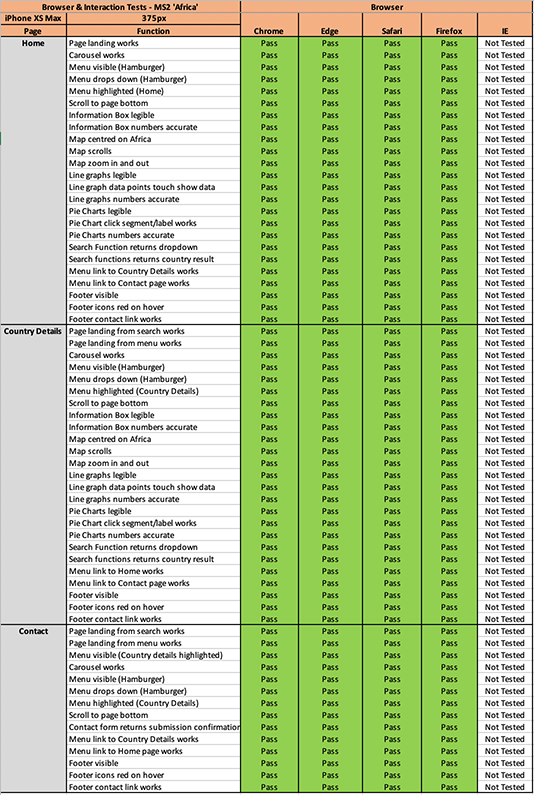
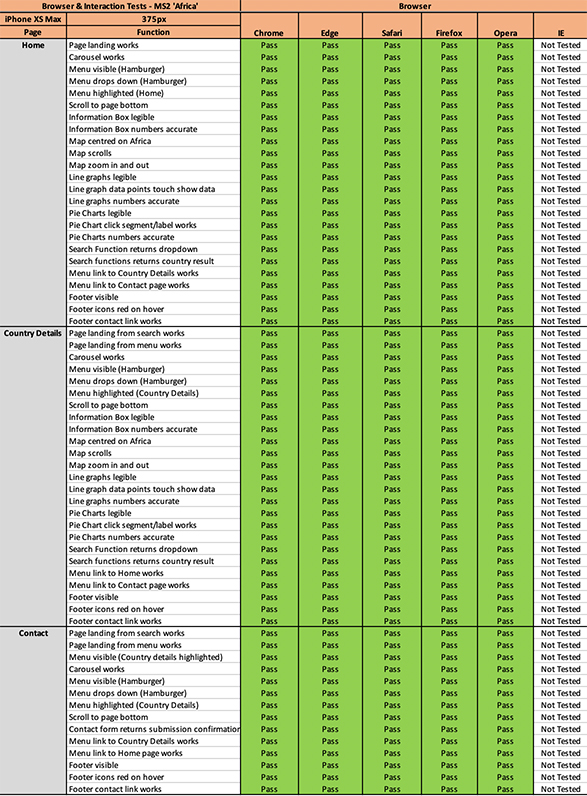
Amends in JS files and upload Opera functional test

diff --git a/assets/js/countrystats.js b/assets/js/countrystats.js
@@ -7,7 +7,6 @@ function getDataCapital(cb) {
 	const xhttp = new XMLHttpRequest();
 	xhttp.onreadystatechange = function() {
 		if (this.readyState == 4 && this.status == 200) {
-			//document.getElementById("data").innerHTML = xhttp.responseText;
 			cb(JSON.parse(this.responseText));
 		}
 	};
@@ -90,6 +89,5 @@ function writeCountryGdp(data) {
 	const gdp = (item[0].value / 1000000000).toFixed(1);
 	const perc = (gdp / 24.24529223027).toFixed(2);
 	document.getElementById("gdpsize").innerHTML += ("GDP: " + year + " US$ " + gdp + " Bn - " + perc + "% of the total Africa GDP (US$ 2,424 Bn)");
-	//console.log(year, gdp);
 }
 getDataCountryGdp(writeCountryGdp);

diff --git a/assets/js/totalcharts.js b/assets/js/totalcharts.js
@@ -1,8 +1,4 @@
 //------------------Total Population Graph from CSV---------------------------->
-//const haxis = [];
-//const vaxis = [];
-//const verts = [];
-//const herts = [];
 getCsvPop();
 async function getCsvPop() {
 	const response = await fetch('assets/csv/pop.csv');
@@ -45,10 +41,6 @@ async function getCsvPop() {
 	});
 }
 //--------------------GDP Total Graph--------------------------------------------->
-//const haxs = [];
-//const vaxs = [];
-//const virts = [];
-//const hirts = [];
 getCsvGdp();
 async function getCsvGdp() {
 	const response = await fetch('assets/csv/gdp.csv');

diff --git a/assets/js/countrymap.js b/assets/js/countrymap.js
@@ -5,7 +5,6 @@ function getDataCty(cb) {
 	const xhttp = new XMLHttpRequest();
 	xhttp.onreadystatechange = function() {
 		if (this.readyState == 4 && this.status == 200) {
-			//document.getElementById("data").innerHTML = xhttp.responseText;
 			cb(JSON.parse(this.responseText));
 		}
 	};

diff --git a/testing.md b/testing.md
@@ -148,7 +148,7 @@ The user stories are annotated below to describe actual functionality. Screensho
           * On submission a clear modal message pops up to confirm to the user that their details have been sent.
 
 *    ### Functional User Tests by Browser
-      * All the functional user tests have been made per the attached [Test Schedule](https://github.com/Readri205/MS2_Project/blob/master/assets/documents/excelfiles/testschedule.xlsx). All functional tests have been on different Browsers including Chrome, MS Edge, Firefox, Internet Explorer.
+      * All the functional user tests have been made per the attached [Test Schedule](https://github.com/Readri205/MS2_Project/blob/master/assets/documents/excelfiles/testschedule.xlsx). All functional tests have been on different Browsers including Chrome, MS Edge, Firefox, Opera and Internet Explorer.
       * Note that there are functional **'fails'** returned from **Internet Explorer** for any search functionality. Internet Explorer was **NOT** tested on mobile. However, **MS Edge** was tested **successfully** on large screen and mobile. The results are shown below;
         * MacBook Pro 16" Screen;
 

diff --git a/README.md b/README.md
@@ -867,6 +867,7 @@ The website was uploaded to the 'Peer Code Review' Slack Channel designed to rec
     * V25.6 Amends to chartjs variables
     * V25.7 Update JSHint images
     * V25.8 Update testing.md text
+    * V25.9 Amends in JS files and upload Opera functional test
 
 ***
 <b id="f1">1</b> **&** <b id="f2">2</b> **Future Features** in the [README.md](https://github.com/Readri205/MS2_Project/blob/master/README.md) identifies that a 'quick search' could be placed at the top of both the 'Home' page and the 'Country Details' page to facilitate regular and frequent users. Regular and frequent users may wish to immediately see the details for any particular country as soon as they come onto the site. This allows quick access to Country search rather than having to scroll down to the bottom of the page. 1[↩](#a1);2[↩](#a2)
